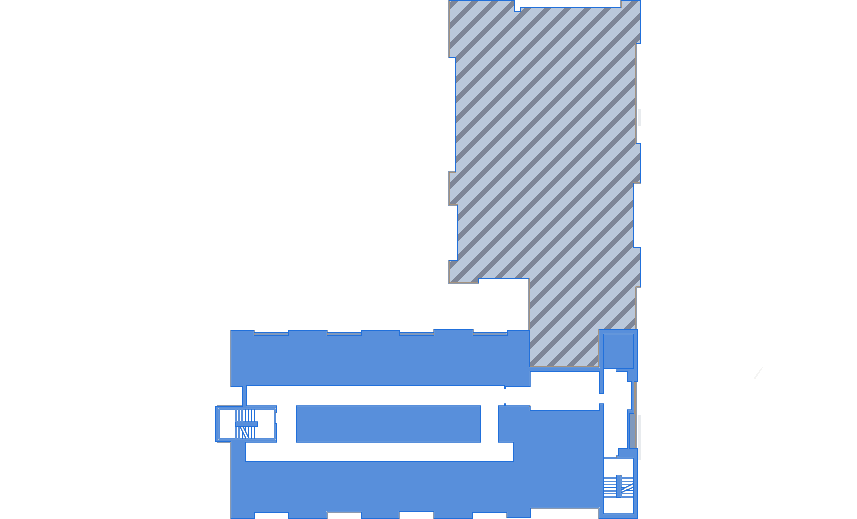
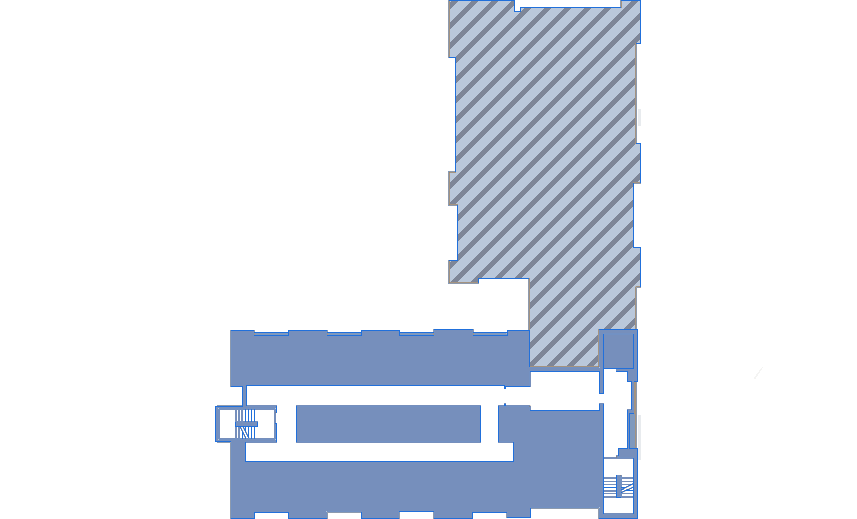
fixed the maps

Changed region(s): [[0.2427, 0.6166, 0.7585, 1.0]]

diff --git a/src/main/java/app/applicationControl/ApplicationController.java b/src/main/java/app/applicationControl/ApplicationController.java
@@ -68,18 +68,18 @@ public class ApplicationController extends Application {
         map = databaseManager.load();
 
         floorMaps = new HashMap<>();
-        floorMaps.put("floor1", new ProxyImage("Saina's New Blue Maps/main_1_blue.png"));
-        floorMaps.put("floor2", new ProxyImage("Saina's New Blue Maps/main_2_blue.png"));
-        floorMaps.put("floor3", new ProxyImage("Saina's New Blue Maps/main_3_blue.png"));
-        floorMaps.put("floor4", new ProxyImage("Saina's New Blue Maps/main_4_blue.png"));
-        floorMaps.put("floor5", new ProxyImage("Saina's New Blue Maps/main_5_blue.png"));
-        floorMaps.put("floor6", new ProxyImage("Saina's New Blue Maps/main_6_blue.png"));
-        floorMaps.put("floor7", new ProxyImage("Saina's New Blue Maps/main_7_blue.png"));
-        floorMaps.put("belkin1", new ProxyImage("Saina's New Blue Maps/Belkin_1_blue_temp.png"));
-        floorMaps.put("belkin2", new ProxyImage("Saina's New Blue Maps/Belkin_2_blue.png"));
-        floorMaps.put("belkin3", new ProxyImage("Saina's New Blue Maps/Belkin_3_blue.png"));
-        floorMaps.put("belkin4", new ProxyImage("Saina's New Blue Maps/Belkin_4_blue.png"));
-        floorMaps.put("campus", new ProxyImage("Saina's New Blue Maps/campus_blue.png"));
+        floorMaps.put("floor1", new ProxyImage("Blue_Maps/main_1_blue.png"));
+        floorMaps.put("floor2", new ProxyImage("Blue_Maps/main_2_blue.png"));
+        floorMaps.put("floor3", new ProxyImage("Blue_Maps/main_3_blue.png"));
+        floorMaps.put("floor4", new ProxyImage("Blue_Maps/main_4_blue.png"));
+        floorMaps.put("floor5", new ProxyImage("Blue_Maps/main_5_blue.png"));
+        floorMaps.put("floor6", new ProxyImage("Blue_Maps/main_6_blue.png"));
+        floorMaps.put("floor7", new ProxyImage("Blue_Maps/main_7_blue.png"));
+        floorMaps.put("belkin1", new ProxyImage("Blue_Maps/Belkin_1_blue_temp.png"));
+        floorMaps.put("belkin2", new ProxyImage("Blue_Maps/Belkin_2_blue.png"));
+        floorMaps.put("belkin3", new ProxyImage("Blue_Maps/Belkin_3_blue.png"));
+        floorMaps.put("belkin4", new ProxyImage("Blue_Maps/Belkin_4_blue.png"));
+        floorMaps.put("campus", new ProxyImage("Blue_Maps/new_campus_blue.png"));
 
         extraImages = new HashMap<>();
         extraImages.put("", null);
